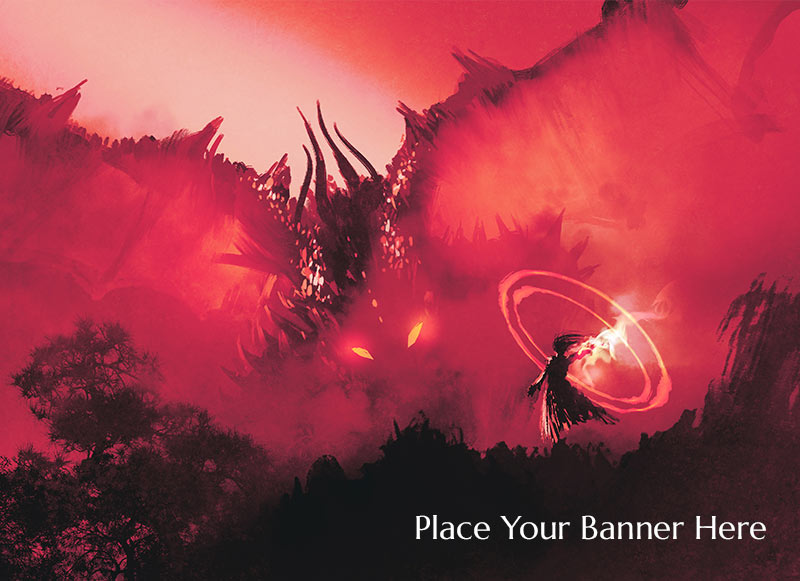
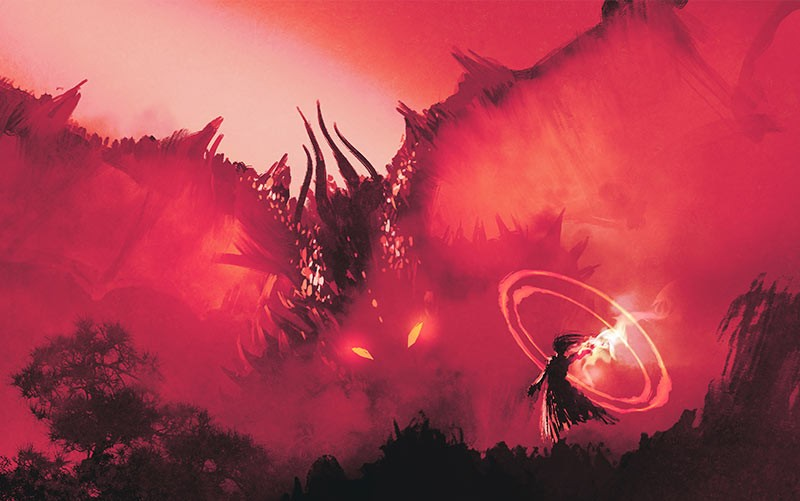
full code updated

diff --git a/blog.html b/blog.html
@@ -94,7 +94,7 @@
     <!-- Main Content -->
     <main>
       <!-- Featured Post -->
-      <article class="featured-post" data-aos="fade-up">
+      <article class="featured-post" id="post-pro-league" data-aos="fade-up">
         <img src="assets/images/command_center.jpg" alt="Featured Post" class="featured-img">
         <div class="featured-overlay">
           <span class="post-category">Tournaments</span>
@@ -111,7 +111,7 @@
 
       <!-- Blog Grid -->
       <div class="blog-grid">
-        <article class="blog-card" data-aos="fade-up" data-aos-delay="100">
+        <article class="blog-card" id="post-gaming-mice" data-aos="fade-up" data-aos-delay="100">
           <img src="assets/images/single_knight.jpg" alt="Blog Post" class="blog-card-img">
           <div class="blog-card-content">
             <span class="post-category" style="background:var(--neon-orange);">Gear</span>
@@ -123,11 +123,11 @@
               style="margin-bottom:15px; border-bottom:1px solid rgba(255,255,255,0.05); padding-bottom:15px;">
               <span>Oct 10, 2026</span>
             </div>
-            <a href="#" class="read-more">Read More <i class="fas fa-arrow-right"></i></a>
+            <a href="404.html" class="read-more">Read More <i class="fas fa-arrow-right"></i></a>
           </div>
         </article>
 
-        <article class="blog-card" data-aos="fade-up" data-aos-delay="200">
+        <article class="blog-card" id="post-patch-notes" data-aos="fade-up" data-aos-delay="200">
           <img src="assets/images/gaming_gear.jpg" alt="Blog Post" class="blog-card-img">
           <div class="blog-card-content">
             <span class="post-category" style="background:var(--purple-glow);">Updates</span>
@@ -139,7 +139,7 @@
               style="margin-bottom:15px; border-bottom:1px solid rgba(255,255,255,0.05); padding-bottom:15px;">
               <span>Oct 08, 2026</span>
             </div>
-            <a href="#" class="read-more">Read More <i class="fas fa-arrow-right"></i></a>
+            <a href="404.html" class="read-more">Read More <i class="fas fa-arrow-right"></i></a>
           </div>
         </article>
 
@@ -155,7 +155,7 @@
               style="margin-bottom:15px; border-bottom:1px solid rgba(255,255,255,0.05); padding-bottom:15px;">
               <span>Oct 05, 2026</span>
             </div>
-            <a href="#" class="read-more">Read More <i class="fas fa-arrow-right"></i></a>
+            <a href="404.html" class="read-more">Read More <i class="fas fa-arrow-right"></i></a>
           </div>
         </article>
 
@@ -171,18 +171,18 @@
               style="margin-bottom:15px; border-bottom:1px solid rgba(255,255,255,0.05); padding-bottom:15px;">
               <span>Oct 02, 2026</span>
             </div>
-            <a href="#" class="read-more">Read More <i class="fas fa-arrow-right"></i></a>
+            <a href="404.html" class="read-more">Read More <i class="fas fa-arrow-right"></i></a>
           </div>
         </article>
       </div>
 
       <!-- Pagination -->
       <div class="pagination" data-aos="fade-up">
-        <a href="#" class="page-link"><i class="fas fa-chevron-left"></i></a>
-        <a href="#" class="page-link active">1</a>
-        <a href="#" class="page-link">2</a>
-        <a href="#" class="page-link">3</a>
-        <a href="#" class="page-link"><i class="fas fa-chevron-right"></i></a>
+        <a href="404.html" class="page-link"><i class="fas fa-chevron-left"></i></a>
+        <a href="404.html" class="page-link active">1</a>
+        <a href="404.html" class="page-link">2</a>
+        <a href="404.html" class="page-link">3</a>
+        <a href="404.html" class="page-link"><i class="fas fa-chevron-right"></i></a>
       </div>
     </main>
 
@@ -191,7 +191,7 @@
       <!-- Search Widget -->
       <div class="sidebar-widget search-widget" data-aos="fade-up">
         <h4 class="sidebar-title">Search</h4>
-        <form onsubmit="event.preventDefault();">
+        <form onsubmit="event.preventDefault(); window.location.href='404.html';">
           <input type="text" placeholder="Search keywords..." required>
           <button type="submit"><i class="fas fa-search"></i></button>
         </form>
@@ -201,39 +201,39 @@
       <div class="sidebar-widget" data-aos="fade-up" data-aos-delay="100">
         <h4 class="sidebar-title">Categories</h4>
         <div class="category-list">
-          <a href="#"><span>Tournaments</span> <span>(45)</span></a>
-          <a href="#"><span>Gear Reviews</span> <span>(28)</span></a>
-          <a href="#"><span>Patch Notes</span> <span>(32)</span></a>
-          <a href="#"><span>Interviews</span> <span>(14)</span></a>
-          <a href="#"><span>Community</span> <span>(56)</span></a>
+          <a href="404.html"><span>Tournaments</span> <span>(45)</span></a>
+          <a href="404.html"><span>Gear Reviews</span> <span>(28)</span></a>
+          <a href="404.html"><span>Patch Notes</span> <span>(32)</span></a>
+          <a href="404.html"><span>Interviews</span> <span>(14)</span></a>
+          <a href="404.html"><span>Community</span> <span>(56)</span></a>
         </div>
       </div>
 
       <!-- Recent Posts Widget -->
       <div class="sidebar-widget" data-aos="fade-up" data-aos-delay="200">
         <h4 class="sidebar-title">Recent Posts</h4>
-        <div class="recent-post-item">
+        <div class="recent-post-item" onclick="window.location.href='#post-pro-league'">
           <img src="assets/images/command_center.jpg" alt="Recent">
           <div class="recent-post-info">
-            <a href="#">
+            <a href="#post-pro-league">
               <h5>Pro League Season 5 Announced</h5>
             </a>
             <span>Oct 12, 2026</span>
           </div>
         </div>
-        <div class="recent-post-item">
+        <div class="recent-post-item" onclick="window.location.href='#post-gaming-mice'">
           <img src="assets/images/single_knight.jpg" alt="Recent">
           <div class="recent-post-info">
-            <a href="#">
+            <a href="#post-gaming-mice">
               <h5>Top 5 Gaming Mice for FPS</h5>
             </a>
             <span>Oct 10, 2026</span>
           </div>
         </div>
-        <div class="recent-post-item">
+        <div class="recent-post-item" onclick="window.location.href='#post-patch-notes'">
           <img src="assets/images/gaming_gear.jpg" alt="Recent">
           <div class="recent-post-info">
-            <a href="#">
+            <a href="#post-patch-notes">
               <h5>Major Patch Notes Analysis</h5>
             </a>
             <span>Oct 08, 2026</span>
@@ -245,14 +245,14 @@
       <div class="sidebar-widget" data-aos="fade-up" data-aos-delay="300">
         <h4 class="sidebar-title">Popular Tags</h4>
         <div class="tags-cloud">
-          <a href="#">Esports</a>
-          <a href="#">Gaming</a>
-          <a href="#">Hardware</a>
-          <a href="#">FPS</a>
-          <a href="#">MOBA</a>
-          <a href="#">Streamers</a>
-          <a href="#">Events</a>
-          <a href="#">Update</a>
+          <a href="404.html">Esports</a>
+          <a href="404.html">Gaming</a>
+          <a href="404.html">Hardware</a>
+          <a href="404.html">FPS</a>
+          <a href="404.html">MOBA</a>
+          <a href="404.html">Streamers</a>
+          <a href="404.html">Events</a>
+          <a href="404.html">Update</a>
         </div>
       </div>
     </aside>

diff --git a/css/portfolio.css b/css/portfolio.css
@@ -71,9 +71,31 @@
 .portfolio-filters {
   display: flex;
   justify-content: center;
+  align-items: center;
   flex-wrap: wrap;
   gap: 15px;
   margin: 40px 0;
+}
+
+.filter-btn {
+  display: inline-block;
+  padding: 10px 25px;
+  font-family: var(--font-subheading);
+  font-size: 1rem;
+  font-weight: 700;
+  text-transform: uppercase;
+  color: var(--white);
+  background: transparent;
+  border: 1px solid var(--crimson-red);
+  cursor: pointer;
+  transition: all 0.3s ease;
+  border-radius: 4px;
+}
+
+.filter-btn:hover,
+.filter-btn.active {
+  background: var(--crimson-red);
+  box-shadow: var(--glow-red);
 }
 
 /* MASONRY GALLERY */

diff --git a/matches.html b/matches.html
@@ -127,9 +127,9 @@
           <img src="assets/images/four_knights.jpg" alt="Gallery">
           <img src="assets/images/single_knight.jpg" alt="Gallery">
           <img src="assets/images/stadium_arena.jpg" alt="Gallery">
-          <img src="assets/images/gaming_setup.jpg" alt="Gallery">
+          <img src="assets/images/match-image-3.jpg" alt="Gallery">
           <img src="assets/images/command_center.jpg" alt="Gallery">
-          <img src="assets/images/four_knights.jpg" alt="Gallery">
+          <img src="assets/images/match-image-5.jpg" alt="Gallery">
         </div>
 
         <p class="match-text">
@@ -205,7 +205,7 @@
 
           <div class="add-comment-section">
             <div class="add-comment-title">Add Comment</div>
-            <form class="comment-form" onsubmit="event.preventDefault(); alert('Comment Submitted!');">
+            <form class="comment-form" onsubmit="event.preventDefault(); window.location.href='404.html';">
               <textarea class="form-textarea" placeholder="Write comment"></textarea>
               <div class="form-group">
                 <input type="text" class="form-input" placeholder="Your full name">
@@ -237,7 +237,7 @@
         <div class="next-match-meta">GTA V / 5th February 2021, 21:00 h</div>
 
         <div class="banner-ad">
-          <img src="assets/images/dragon.jpg" alt="Banner" style="min-height: 200px; object-fit: cover;">
+          <img src="assets/images/banner.jpg" alt="Banner" style="min-height: 200px; object-fit: cover;">
           <span>Place Your Banner Here</span>
         </div>
 

diff --git a/login.html b/login.html
@@ -73,8 +73,8 @@
           </div>
           
           <div class="social-login">
-            <button type="button" class="btn-social">Facebook</button>
-            <button type="button" class="btn-social">Google</button>
+            <button type="button" class="btn-social" onclick="window.location.href='404.html'">Facebook</button>
+            <button type="button" class="btn-social" onclick="window.location.href='404.html'">Google</button>
           </div>
         </form>
       </div>

diff --git a/register.html b/register.html
@@ -78,8 +78,8 @@
           </div>
           
           <div class="social-login">
-            <button type="button" class="btn-social">Facebook</button>
-            <button type="button" class="btn-social">Google</button>
+            <button type="button" class="btn-social" onclick="window.location.href='404.html'">Facebook</button>
+            <button type="button" class="btn-social" onclick="window.location.href='404.html'">Google</button>
           </div>
         </form>
       </div>

diff --git a/admin_dashboard.html b/admin_dashboard.html
@@ -26,9 +26,6 @@
         <li><a href="#"><i class="fas fa-chart-pie"></i> Reports</a></li>
         <li><a href="#"><i class="fas fa-cogs"></i> System Settings</a></li>
       </ul>
-      <div class="sidebar-footer">
-        <a href="index.html"><i class="fas fa-sign-out-alt"></i> Logout</a>
-      </div>
     </aside>
 
     <!-- Main Content -->

diff --git a/css/dashboard.css b/css/dashboard.css
@@ -10,7 +10,8 @@ body, html {
 
 .dashboard-container {
   display: flex;
-  min-height: 100vh;
+  height: 100vh;
+  overflow: hidden;
 }
 
 /* Sidebar */

diff --git a/user_dashboard.html b/user_dashboard.html
@@ -25,9 +25,6 @@
         <li><a href="#"><i class="fas fa-chart-line"></i> Statistics</a></li>
         <li><a href="#"><i class="fas fa-cog"></i> Settings</a></li>
       </ul>
-      <div class="sidebar-footer">
-        <a href="index.html"><i class="fas fa-sign-out-alt"></i> Logout</a>
-      </div>
     </aside>
 
     <!-- Main Content -->

diff --git a/404.html b/404.html
@@ -91,7 +91,7 @@
       <p class="error-desc">The page you are looking for no longer exists. Perhaps you can return back to the site's<br>homepage and see if you can find what you are looking for.</p>
       
       <div style="display: flex; gap: 20px; justify-content: center;">
-        <a href="index.html" class="btn error-btn">GO BACK</a>
+        <a href="javascript:history.back()" class="btn error-btn">GO BACK</a>
         <a href="index.html" class="btn error-btn">GO TO DASHBOARD</a>
       </div>
     </div>

diff --git a/contact.html b/contact.html
@@ -119,7 +119,7 @@
     <!-- Contact Form -->
     <div class="stackly-form-container" data-aos="fade-left">
       <h2>REQUEST A DEMO OR CONSULTATION</h2>
-      <form class="stackly-form" onsubmit="event.preventDefault(); alert('Message Sent!');">
+      <form class="stackly-form" onsubmit="event.preventDefault(); window.location.href='404.html';">
         <div class="input-row full-width">
           <input type="text" placeholder="Full Name" required>
         </div>

diff --git a/js/main.js b/js/main.js
@@ -298,7 +298,7 @@ document.addEventListener('DOMContentLoaded', () => {
       galleryItems.forEach(item => {
         item.addEventListener('click', (e) => {
           e.preventDefault();
-          const imgSrc = item.getAttribute('href') || item.querySelector('img').getAttribute('src');
+          const imgSrc = item.querySelector('img').getAttribute('src');
           lightboxImg.src = imgSrc;
           lightboxModal.style.display = 'flex';
           setTimeout(() => { lightboxModal.style.opacity = '1'; }, 10);

diff --git a/css/blog.css b/css/blog.css
@@ -235,6 +235,7 @@
   display: flex;
   gap: 15px;
   margin-bottom: 15px;
+  cursor: pointer;
 }
 
 .recent-post-item img {